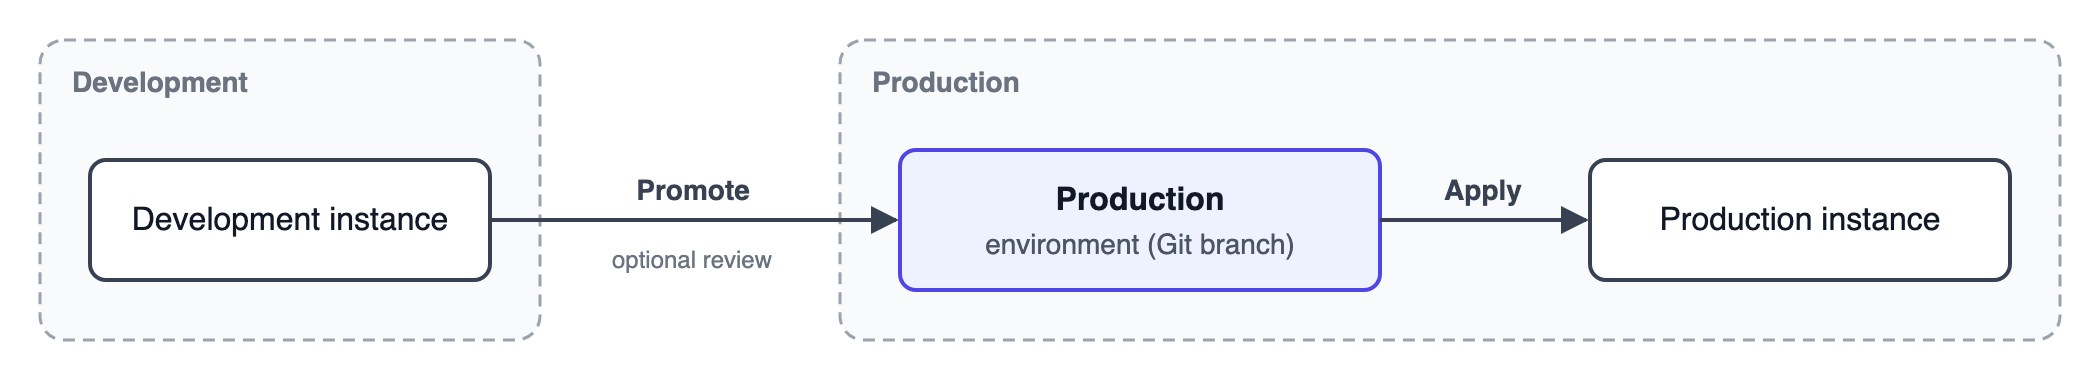
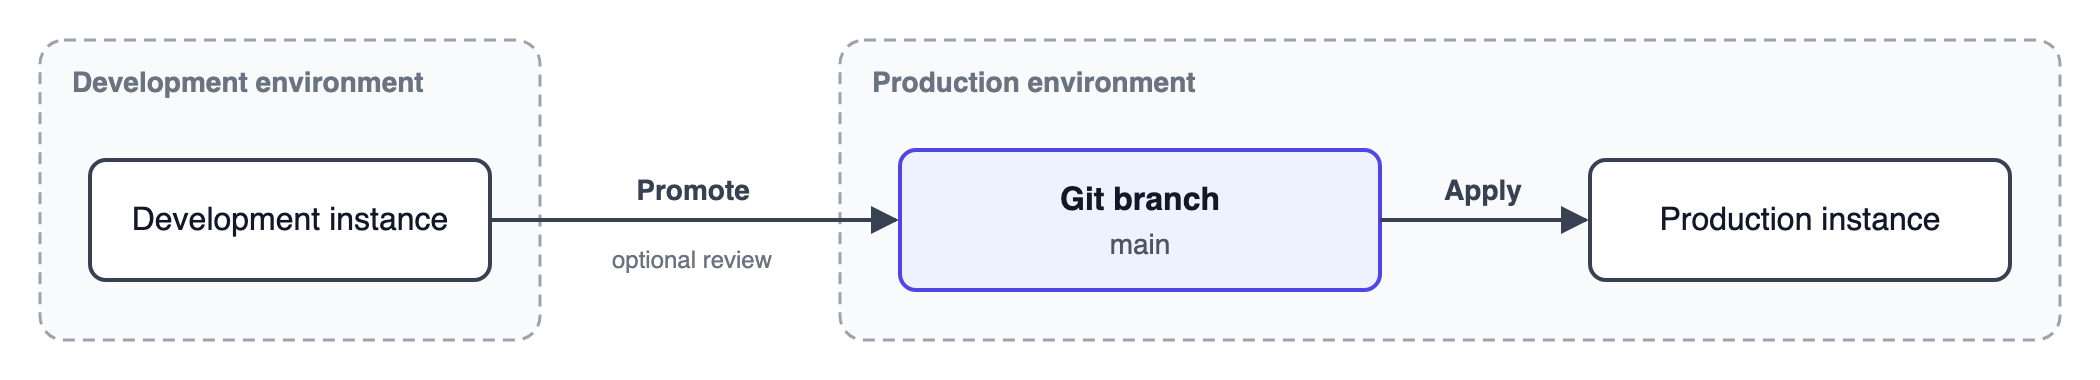
docs: Define environments as a step plus its instance, relabel diagrams

diff --git a/docs/administer/environments/plan-your-environments.md b/docs/administer/environments/plan-your-environments.md
@@ -21,14 +21,14 @@ Environments are in Preview and may change in future releases. Try them on test 
 
 ## How instances and environments relate
 
-You configure the environments of each instance separately. Each instance can have two environments, one per direction:
+Each instance belongs to one environment and promotes to the next. You configure this on each instance separately, with up to two environment configurations:
 
-- The environment the instance promotes changes to.
-- The environment the instance applies changes from.
+- **Apply:** the environment the instance belongs to. The instance applies changes from it.
+- **Promote:** the next environment. The instance promotes changes to it.
 
-With [Git-based promotion](git-based-promotion/README.md), each environment uses a provider, repository, and branch. They don't have to match across directions or instances, and several environments can share a provider. An instance can apply from one repository and promote to another, or use different branches of the same repository. Changes reach the next instance once they're on the branch it applies from, whether n8n commits them there directly or someone merges them in.
+With [Git-based promotion](git-based-promotion/README.md), each environment configuration uses a provider, repository, and branch. They don't have to match across directions or instances, and several configurations can share a provider. An instance can apply from one repository and promote to another, or use different branches of the same repository. Changes reach the next instance once they're on the branch it applies from, whether n8n commits them there directly or someone merges them in.
 
-Name each environment after the stage it stands for, such as Staging or Production. The patterns below are common setups, not the only ones.
+Name each environment after its step in your release process, such as Staging or Production. The patterns below are common setups, not the only ones.
 
 ## Development and production
 

diff --git a/docs/administer/environments/README.md b/docs/administer/environments/README.md
@@ -48,15 +48,15 @@ Changes move between instances through an environment:
 2. Optional: if the environment requires a promotion review, someone approves the changes on the development instance before they reach the environment.
 3. On the production instance, you apply the changes from the Production environment.
 
-With Git-based promotion, the Production environment is a Git branch, and promoting commits to it.
+With Git-based promotion, promoting commits the changes to the Production environment's Git branch.
 
 ## Concepts
 
 ### Environment
 
-Conceptually, an environment is a step in your release process, such as staging or production. It holds the version of your work for that step. You promote changes to an environment from one instance, and the instance that runs that step applies them. Promoting doesn't change that instance until it applies.
+Conceptually, an environment is a step in your release process together with the instance that runs it, such as a staging or production instance. You promote changes to the next environment, and its instance applies them.
 
-Technically, with Git-based promotion, an environment is a branch in a remote Git repository. On the instance that promotes, the promote environment configuration points to that repository and branch, and defines how changes reach the branch, for example by pushing a feature branch or opening a merge request. On the instance that applies, the apply environment configuration points to the same repository and branch.
+Technically, with Git-based promotion, promoted changes wait in a branch of a remote Git repository until the instance applies them. On the instance that promotes, the promote environment configuration points to that repository and branch, and defines how changes reach the branch, for example by pushing a feature branch or opening a merge request. On the instance that applies, the apply environment configuration points to the same repository and branch.
 
 ### Promote and apply
 
